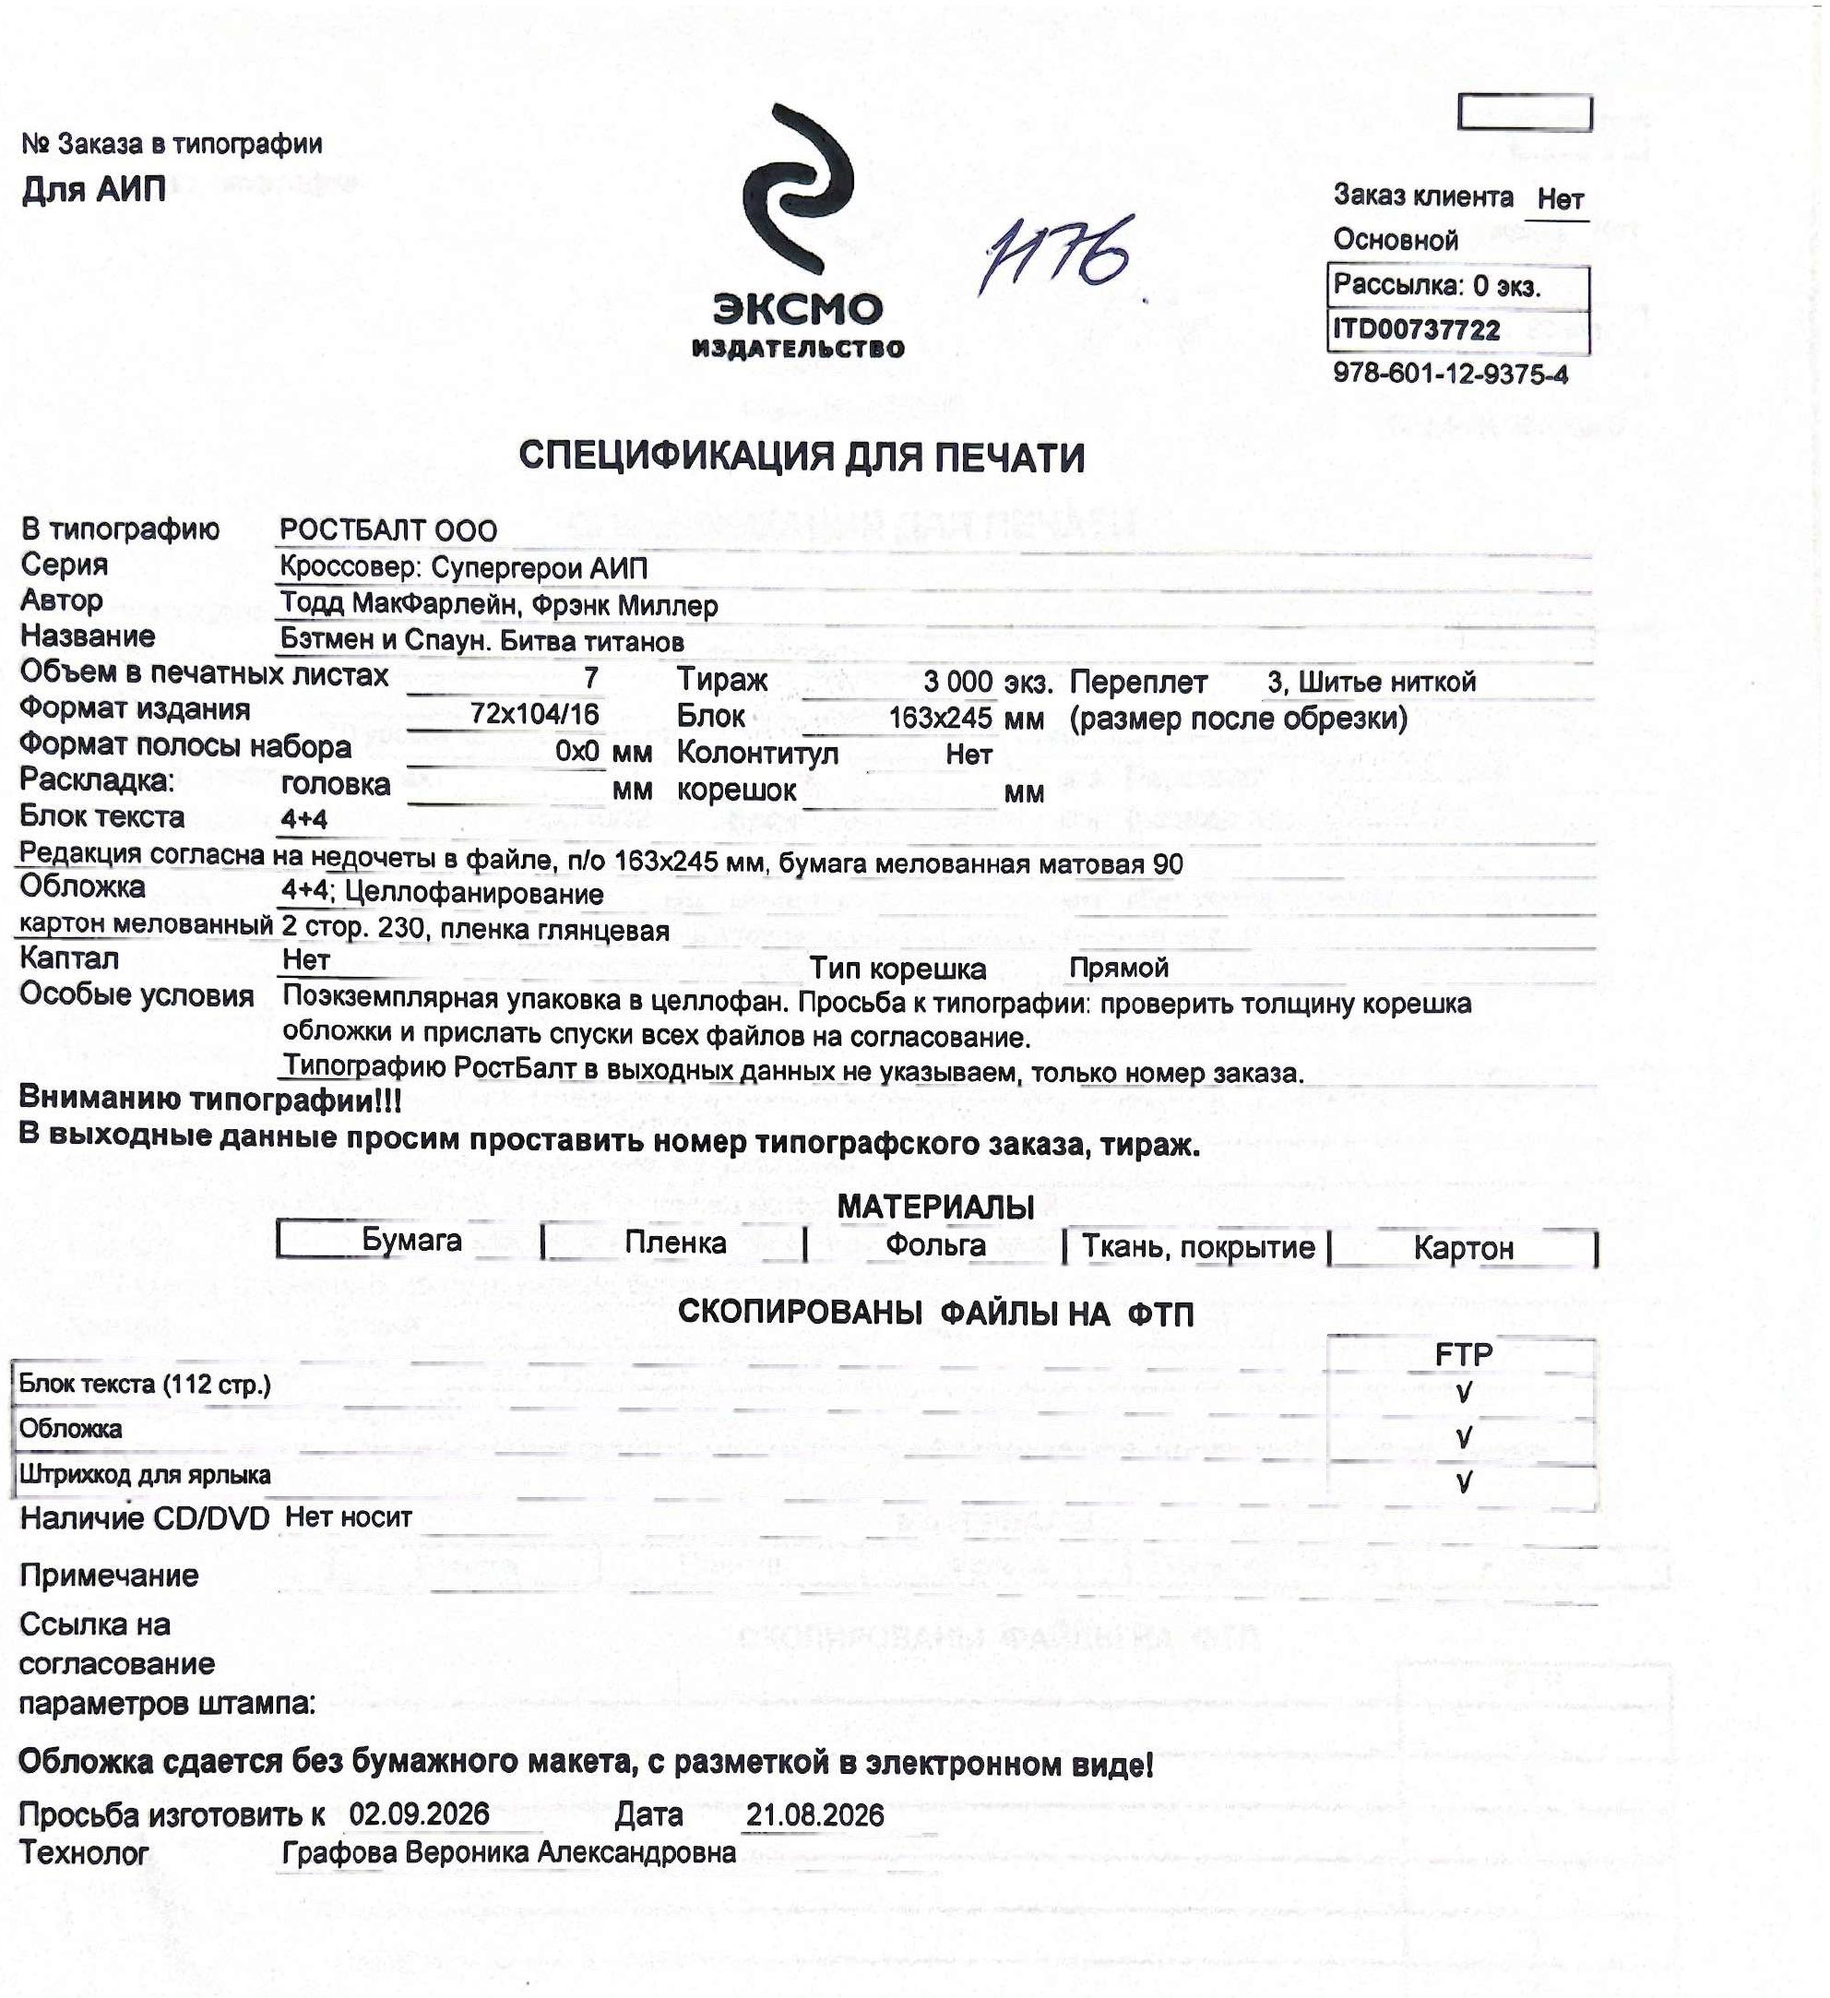
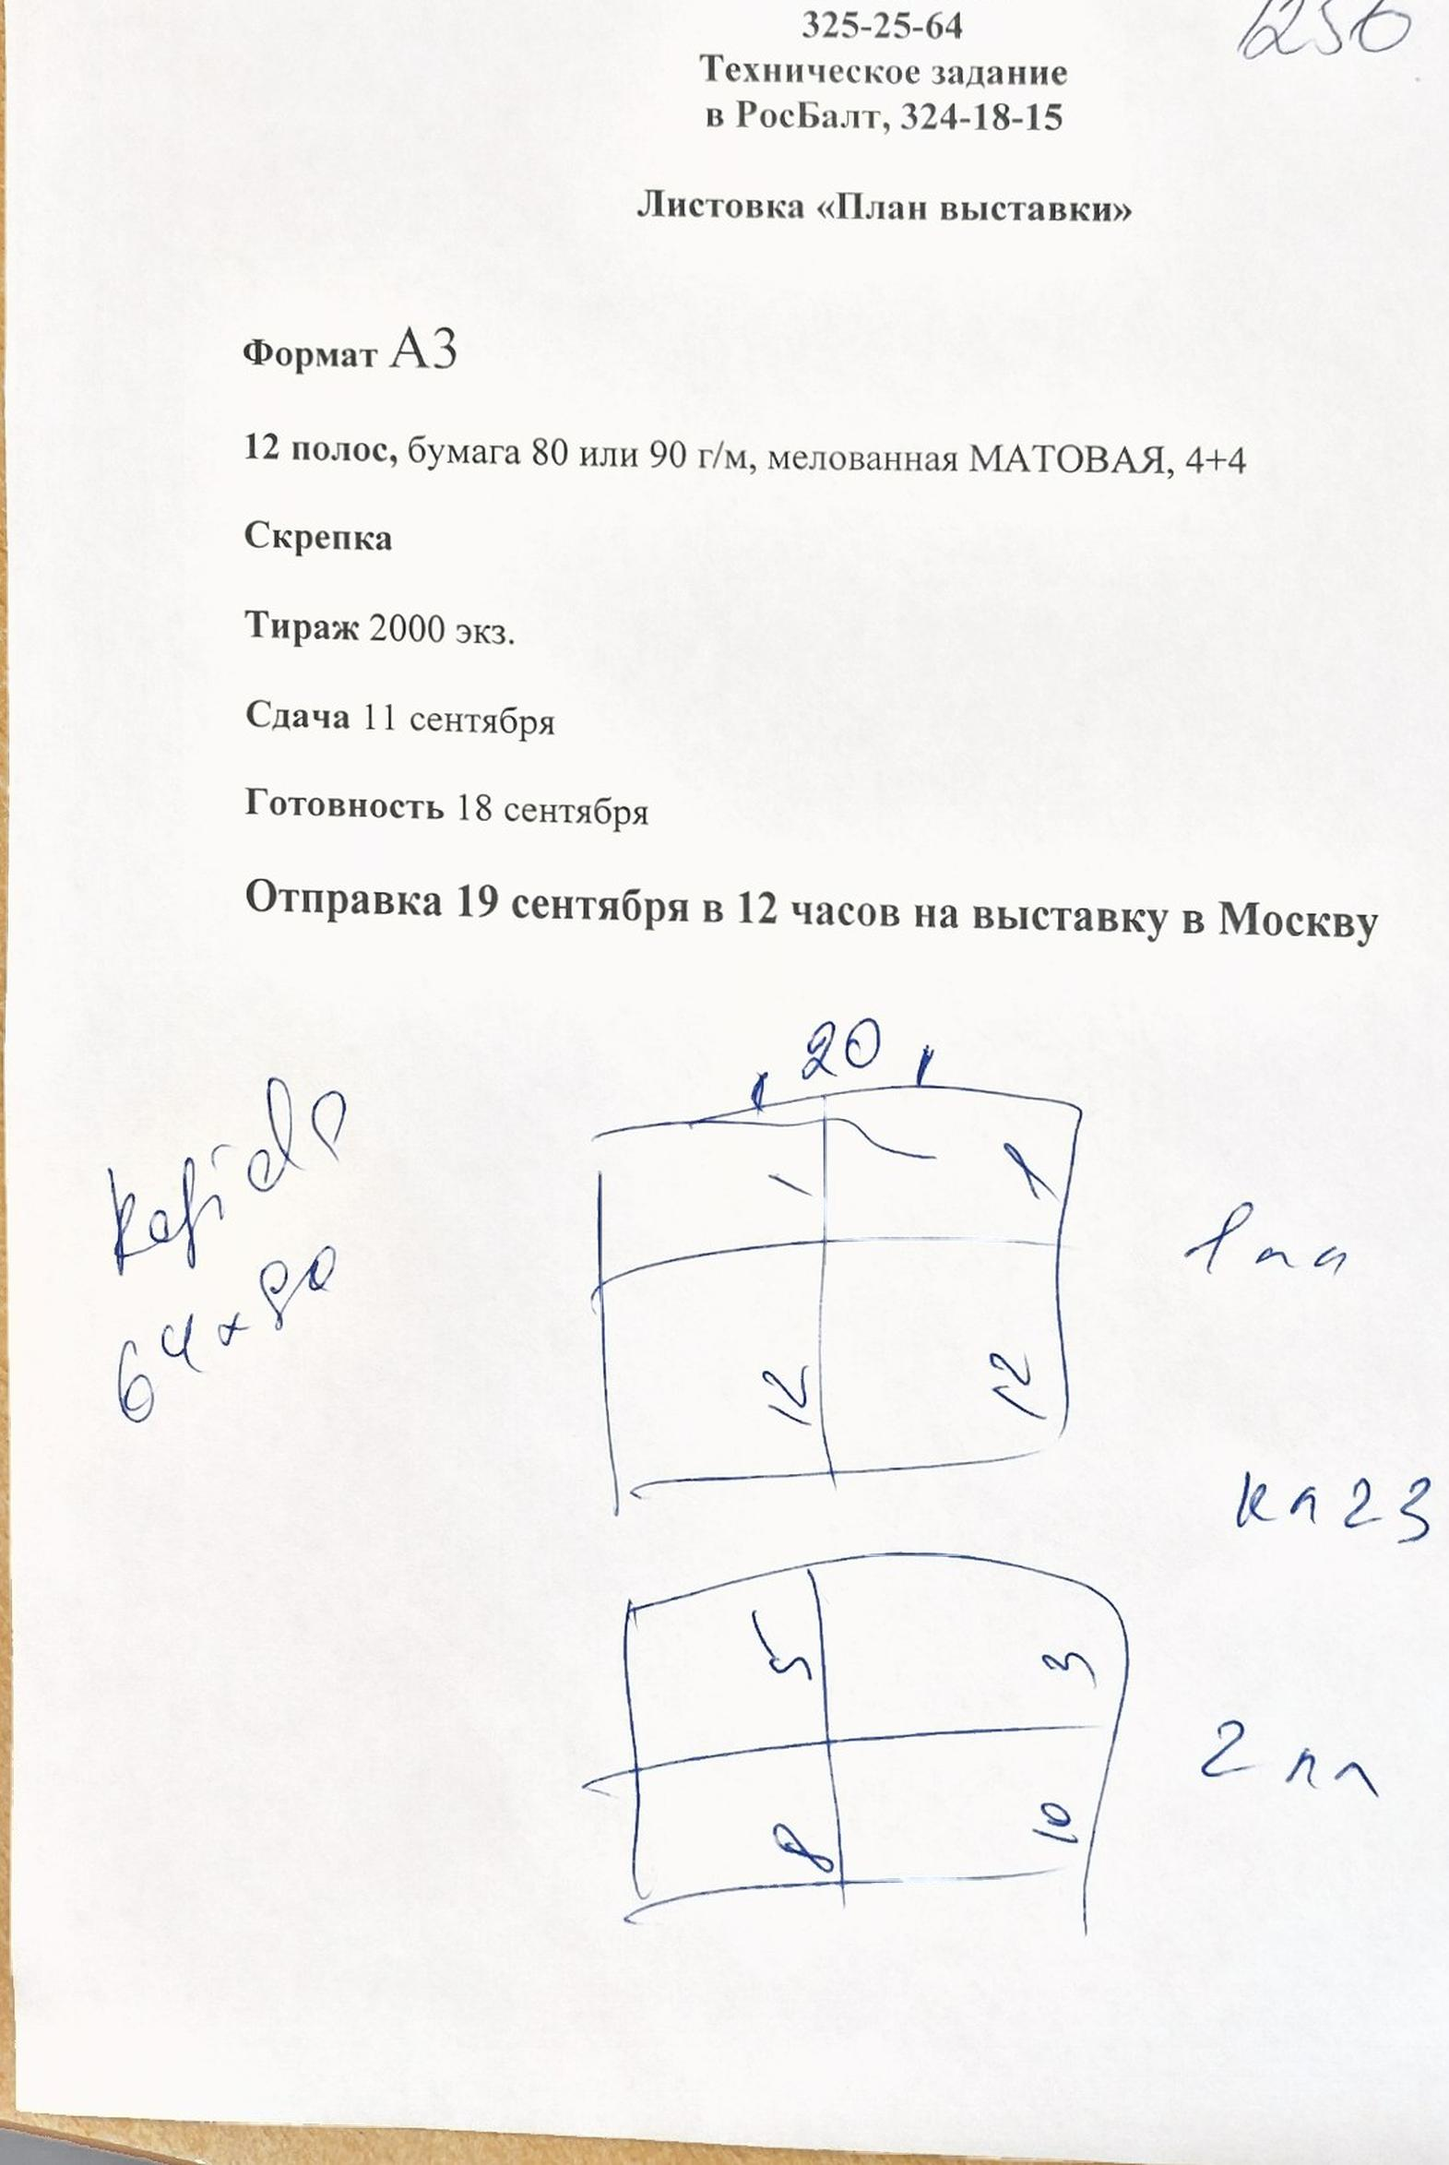
edit sig preview

diff --git a/ui/signature_preview.py b/ui/signature_preview.py
@@ -318,7 +318,7 @@ class SignaturePreviewPanel(ctk.CTkFrame):
             info = f"{info}\n{tpl_name}" if info else tpl_name
         self._info_lbl.configure(text=info)
 
-        self._draw()
+        self._redraw_canvas()
 
     # ── ОБРАБОТЧИКИ ──────────────────────────────────────────────
     def _close(self):
@@ -327,15 +327,15 @@ class SignaturePreviewPanel(ctk.CTkFrame):
 
     def _on_side_change(self, value: str):
         self._side = "A" if value == "Лицо" else "B"
-        self._draw()
+        self._redraw_canvas()
 
     def _toggle_flip(self):
         self._flip180 = not self._flip180
-        self._draw()
+        self._redraw_canvas()
 
     def _on_dims_toggle(self):
         self._show_dims = bool(self._dims_var.get())
-        self._draw()
+        self._redraw_canvas()
 
     def _on_resize(self, _event=None):
         # Перерисовка «с задержкой» — иначе при перетаскивании
@@ -345,10 +345,10 @@ class SignaturePreviewPanel(ctk.CTkFrame):
                 self.after_cancel(self._redraw_job)
             except Exception:
                 pass
-        self._redraw_job = self.after(60, self._draw)
+        self._redraw_job = self.after(60, self._redraw_canvas)
 
     # ── ОТРИСОВКА ────────────────────────────────────────────────
-    def _draw(self):
+    def _redraw_canvas(self):
         self._redraw_job = None
         c = self._canvas
         c.delete("all")
